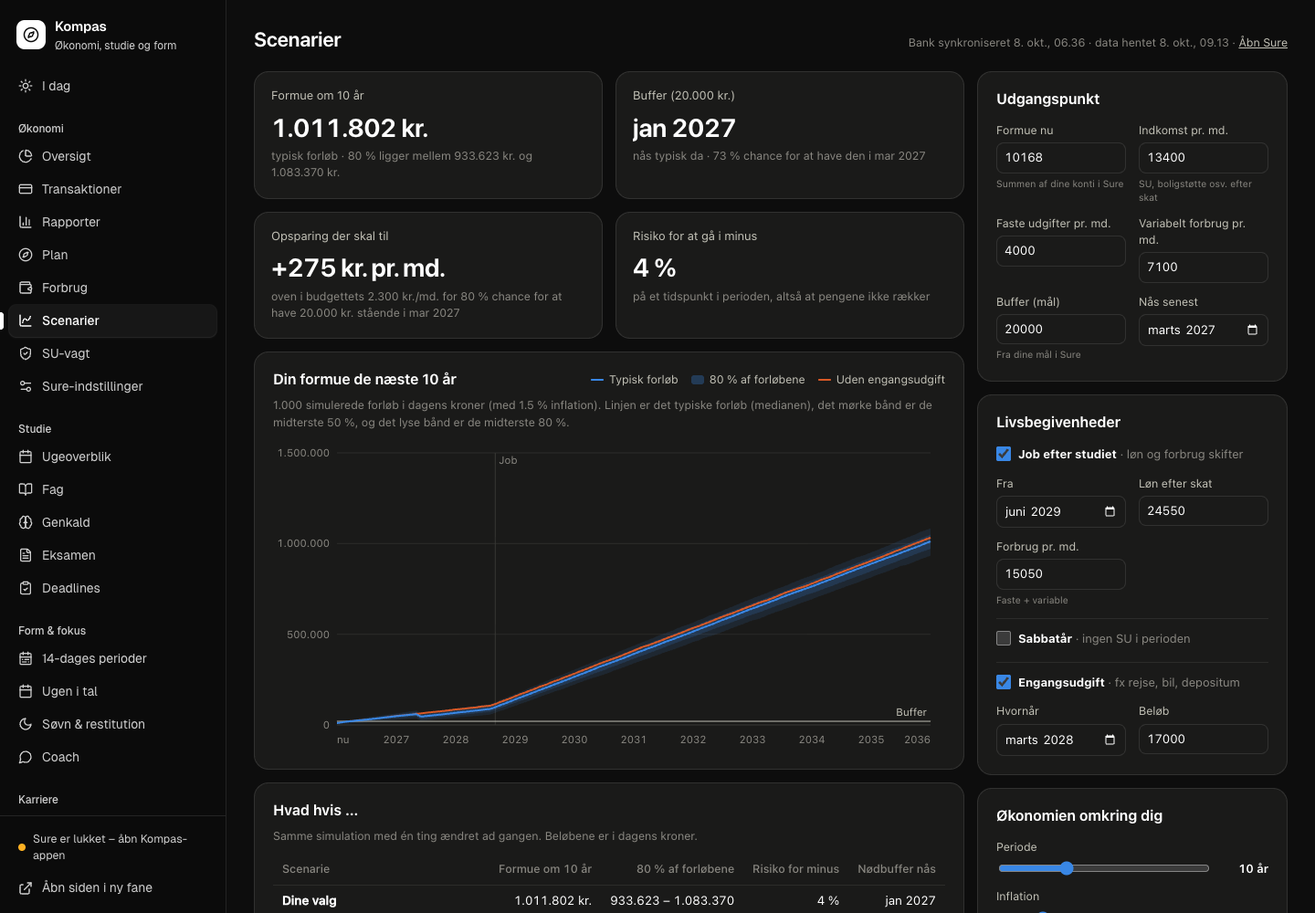
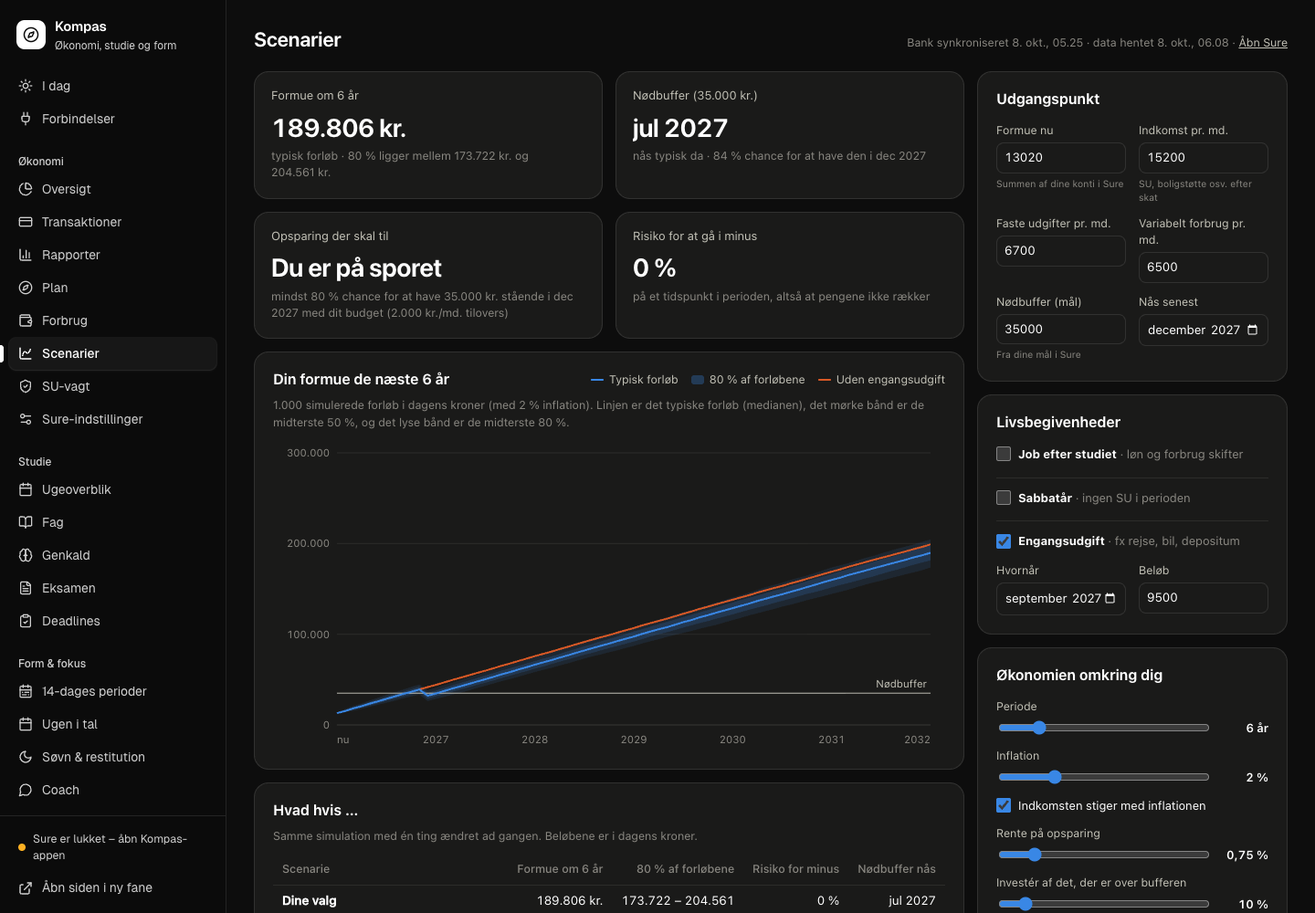
Anden gennemgang: XSS i markdown-links, ærligere afvigelser og rettelser fra mobilen
Sikkerhed
- md.js og studie-eksporten escaper også ", så et link i markdown (fx i en jobvurdering
  bygget på et opslag udefra) ikke kan få sin egen event-handler.
- Karriere: kun https://-links bliver klikbare, og opslagenes id escapes i attributterne.
- Forbindelser viser aldrig argumenter fra Claudes konfiguration.
- MCP-serverens SQL-opslag stoppes efter 10 sekunder.
- Studie: drill-gæt skrives ét ad gangen pr. fil, og gendannelsen efter et nedbrud
  overskriver ikke en anden skrivning.

Statistik
- Afvigelser: når de fleste uger er ens, skal en uge ligge uden for alle 8 uger og afvige
  med en fast forskel pr. kolonne. 4 pas efter uger med 2–4 pas og 899 kr. mod 900 kr.
  markeres ikke længere.
- Sammenhænge: lige mange naboer på hver side, så kanterne ikke giver falske fund.
- Kan coachen ikke regne belastningen, er ugerne ukendte, ikke hvileuger.
- Scenarier: hver kørsel har sine egne tilfældige tal i alle scenarier, så søgningen efter
  den nødvendige opsparing er monoton, og alt regnes med 1.000 kørsler. En måldato i denne
  måned beder om en ny dato.

Sider og dokumentation
- Mobil: Scenarier scroller ikke sidelæns, SU-vagtens måneder løber ikke sammen,
  fristernes mærker får egen linje, og grafernes etiketter ligger oven på linjen.
- Ingen dobbelt punktum efter forkortede måneder, "1,5 %" med komma, og belastningen
  beskrives som coachens TRIMP.
- README: 12 tools, hvad der faktisk kan skrive, hvad demoen gemmer, og coachens
[…]

diff --git a/okonomi/dashboard/public/scenarier/index.html b/okonomi/dashboard/public/scenarier/index.html
@@ -21,7 +21,7 @@
   #compare td:first-child { font-weight: 550; min-width: 200px; }
   #compare td.num { white-space: nowrap; }
   #fan .hover-line { stroke: var(--axis); stroke-width: 1; }
-  @media (max-width: 1000px) { .layout { grid-template-columns: 1fr; } .side { position: static; } }
+  @media (max-width: 1000px) { .layout { grid-template-columns: minmax(0, 1fr); } .side { position: static; } }
   @media (max-width: 520px) { .tiles { grid-template-columns: 1fr; } }
 </style>
 </head>
@@ -88,7 +88,7 @@
   "use strict";
   const { kr, num, pct, $, el, svgEl, addMonths, monthDiff, monthName, TODAY_KEY, loadData, metaLine, store, showTip, hideTip, yAxis } = window.Dash;
 
-  const N_MAIN = 1000, N_SIDE = 400;
+  const N_MAIN = 1000;
   const TARGET_PROB = 0.8;           // "anbefalet opsparing" = 80 % chance for the goal by its date
   const HISTORY_MONTHS = 36;         // variable spending history used for the month-to-month swings
 
@@ -154,7 +154,6 @@
   }
 
   function simulate(p, N, T, { keepPaths = true } = {}) {
-    const rng = mulberry32(123456789);
     const plan = schedule(p, T).rows;
     const inflM = Math.pow(1 + p.infl / 100, 1 / 12), cashM = Math.pow(1 + p.cashRate / 100, 1 / 12) - 1;
     const sig = p.vol / 100 / Math.sqrt(12), mu = Math.log(1 + p.ret / 100) / 12 - sig * sig / 2;
@@ -165,6 +164,9 @@
     const finals = new Float64Array(N);
     let neg = 0, goalHit = 0; const reach = [];
     for (let n = 0; n < N; n++) {
+      // Each run has its own random numbers, the same in every scenario and for every horizon: a comparison or the
+      // search for the extra saving then only shows the difference in the plan, not a different draw of the future
+      const rng = mulberry32(123456789 + n);
       let W = p.start, f = 1, wentNeg = W < 0, reached = W >= p.goal ? 0 : Infinity;
       if (paths) paths[0][n] = W;
       for (let t = 1; t <= T; t++) {
@@ -176,8 +178,9 @@
         const invested = W > p.goal * f ? (W - p.goal * f) * p.investShare / 100 : 0;
         const cash = W - invested;
         if (cash > 0) W += cash * cashM;
+        // the market moves every month, also when nothing is invested, so the runs stay in step across scenarios
+        const u1 = rng() || 1e-12, u2 = rng();
         if (invested > 0) {
-          const u1 = rng() || 1e-12, u2 = rng();
           const z = Math.sqrt(-2 * Math.log(u1)) * Math.cos(2 * Math.PI * u2);
           W += invested * (Math.exp(mu + sig * z) - 1);
         }
@@ -202,7 +205,7 @@
   // smallest extra saving per month that gives TARGET_PROB chance of the goal by its date
   function recommend(p) {
     const T = Math.max(1, monthDiff(TODAY_KEY, p.goalDate));
-    const prob = (extra) => simulate({ ...p, extra }, N_SIDE, T, { keepPaths: false }).goalProb;
+    const prob = (extra) => simulate({ ...p, extra }, N_MAIN, T, { keepPaths: false }).goalProb;
     if (prob(0) >= TARGET_PROB) return 0;
     let lo = 0, hi = 20000;
     if (prob(hi) < TARGET_PROB) return null;
@@ -218,7 +221,7 @@
     const T = T_of(S);
     const main = simulate(S, N_MAIN, T);
     const changed = S.sabbat.on || S.oneoff.on;
-    const baseline = changed ? simulate({ ...S, sabbat: { ...S.sabbat, on: false }, oneoff: { ...S.oneoff, on: false } }, N_SIDE, T) : null;
+    const baseline = changed ? simulate({ ...S, sabbat: { ...S.sabbat, on: false }, oneoff: { ...S.oneoff, on: false } }, N_MAIN, T) : null;
     renderTiles(main);
     renderFan(main, baseline);
     renderCompare(T, main);
@@ -229,15 +232,16 @@
     const tile = (label, value, sub) => tiles.append(el("div", { class: "card tile" },
       el("div", { class: "label", text: label }), el("div", { class: "value", title: value, text: value }), el("div", { class: "sub", text: sub })));
     // En måldato, der er passeret, giver ingen meningsfuld horisont; så beder fliserne om en ny dato i stedet for at
-    // regne på én måned (som gav "over 20.000 kr./md."). Den indeværende måned regnes som før.
-    const passeret = monthDiff(TODAY_KEY, S.goalDate) < 0;
-    const rec = passeret ? null : recommend(S);
+    // regne på én måned (som gav "over 20.000 kr./md."). Er måldatoen denne måned, er der ingen måneder at spare op
+    // i, så anbefalingen beder også om en ny dato; chancen for målet regnes som før.
+    const passeret = monthDiff(TODAY_KEY, S.goalDate) < 0, ingenTid = monthDiff(TODAY_KEY, S.goalDate) <= 0;
+    const rec = ingenTid ? null : recommend(S);
     const monthly = S.income - S.fixed - S.variable;
     tile(`Formue om ${S.years} år`, kr.format(main.final[1]), `typisk forløb · 80 % ligger mellem ${kr.format(main.final[0])} og ${kr.format(main.final[2])}`);
     tile(`${S.goalName} (${kr.format(S.goal)})`, reachText(main.reachMedian), passeret
       ? `nås typisk da · måldatoen ${monthName(S.goalDate)} er passeret`
       : `nås typisk da · ${pct.format(main.goalProb)} chance for at have den i ${monthName(S.goalDate)}`);
-    if (passeret) tile("Opsparing der skal til", "Vælg en ny dato", `måldatoen ${monthName(S.goalDate)} er passeret; vælg under "Nås senest", hvornår ${kr.format(S.goal)} senest skal stå der`);
+    if (ingenTid) tile("Opsparing der skal til", "Vælg en ny dato", `måldatoen ${monthName(S.goalDate)} er ${passeret ? "passeret" : "denne måned, så der er ingen måneder at spare op i"}; vælg under "Nås senest", hvornår ${kr.format(S.goal)} senest skal stå der`);
     else tile("Opsparing der skal til", rec == null ? "over 20.000 kr./md." : rec === 0 ? "Du er på sporet" : `+${kr.format(rec)} pr. md.`,
       rec === 0 ? `mindst ${pct.format(TARGET_PROB)} chance for at have ${kr.format(S.goal)} stående i ${monthName(S.goalDate)} med dit budget (${kr.format(monthly)}/md. tilovers)`
         : `oven i budgettets ${kr.format(monthly)}/md. for ${pct.format(TARGET_PROB)} chance for at have ${kr.format(S.goal)} stående i ${monthName(S.goalDate)}`);
@@ -305,7 +309,7 @@
     svg.append(hit);
 
     $("fanTitle").textContent = `Din formue de næste ${S.years} år`;
-    $("fanHint").textContent = `${num.format(N_MAIN)} simulerede forløb i dagens kroner${S.infl ? ` (med ${S.infl} % inflation)` : ""}. Linjen er det typiske forløb (medianen), det mørke bånd er de midterste 50 %, og det lyse bånd er de midterste 80 %.`;
+    $("fanHint").textContent = `${num.format(N_MAIN)} simulerede forløb i dagens kroner${S.infl ? ` (med ${String(S.infl).replace(".", ",")} % inflation)` : ""}. Linjen er det typiske forløb (medianen), det mørke bånd er de midterste 50 %, og det lyse bånd er de midterste 80 %.`;
     const leg = [
       el("span", {}, el("i", { class: "ln", style: "background:var(--s1)" }), "Typisk forløb"),
       el("span", {}, el("i", { class: "band", style: "background:var(--s1);opacity:.3" }), "80 % af forløbene"),
@@ -326,7 +330,7 @@
     $("cmpHead").textContent = `Formue om ${S.years} år`;
     const body = $("compare").querySelector("tbody"); body.replaceChildren();
     for (const [name, p] of variants) {
-      const r = p === S ? main : simulate(p, N_SIDE, T, { keepPaths: false });
+      const r = p === S ? main : simulate(p, N_MAIN, T, { keepPaths: false });
       body.append(el("tr", {},
         el("td", { text: name }),
         el("td", { class: "num", text: kr.format(r.final[1]) }),

diff --git a/karriere/kompas/index.html b/karriere/kompas/index.html
@@ -41,11 +41,11 @@ function kort(j) {
   const plus = (j.hvorfor || []).map(x => `<li class="plus">${icon("check", 14)}<span>${inl(x)}</span></li>`).join("");
   const minus = (j.huller || []).map(x => `<li class="minus">${icon("activity", 14)}<span>${inl(x)}</span></li>`).join("");
   const handlinger = AABEN.includes(j.status)
-    ? `<button type="button" class="btn" data-a="vil" data-id="${j.id}">${icon("check", 14)}Vil søge</button>
-       <button type="button" class="btn ghost" data-a="nej" data-id="${j.id}">Ikke interesseret</button>`
-    : j.status === "fravalgt" ? `<button type="button" class="btn ghost" data-a="fortryd" data-id="${j.id}">${icon("undo", 14)}Tilbage til uafklarede</button>`
+    ? `<button type="button" class="btn" data-a="vil" data-id="${esc(j.id)}">${icon("check", 14)}Vil søge</button>
+       <button type="button" class="btn ghost" data-a="nej" data-id="${esc(j.id)}">Ikke interesseret</button>`
+    : j.status === "fravalgt" ? `<button type="button" class="btn ghost" data-a="fortryd" data-id="${esc(j.id)}">${icon("undo", 14)}Tilbage til uafklarede</button>`
     : `<a class="btn ghost" href="ansoegninger.html">${icon("kanban", 14)}Se i Ansøgninger</a>`;
-  return `<article class="card job${ud ? " udloebet" : ""}" id="j-${j.id}">
+  return `<article class="card job${ud ? " udloebet" : ""}" id="j-${esc(j.id)}">
     <div class="score${hi ? " hi" : ""}" title="Matchscore fra jobagenten (tærskel ${D.taerskel})"><b>${j.score ?? "–"}</b><small>match</small></div>
     <div>
       <div class="top"><h3>${esc(j.stilling)}</h3><div class="badges">${fristBadge(j)}${stat}</div></div>
@@ -56,9 +56,9 @@ function kort(j) {
       ${j.kort ? `<p class="kort">${inl(j.kort)}</p>` : ""}
       ${j.note ? `<p class="note">Din note: ${esc(j.note)}</p>` : ""}
       <div class="actions">${handlinger}<span class="spacer"></span>
-        ${j.har_tekst ? `<button type="button" class="btn quiet" data-a="opslag" data-id="${j.id}">Opslaget</button>` : ""}
-        <a class="btn quiet" href="${esc(j.link)}" target="_blank" rel="noopener">${icon("external-link", 14)}Jobindex</a></div>
-      ${aabenFravalg === j.id ? `<form class="fravalg" data-id="${j.id}"><input name="note" placeholder="Hvorfor ikke? Valgfrit, men agenten lærer af det" maxlength="300" autofocus>
+        ${j.har_tekst ? `<button type="button" class="btn quiet" data-a="opslag" data-id="${esc(j.id)}">Opslaget</button>` : ""}
+        ${jobLink(j, "btn quiet", `${icon("external-link", 14)}Jobindex`)}</div>
+      ${aabenFravalg === j.id ? `<form class="fravalg" data-id="${esc(j.id)}"><input name="note" placeholder="Hvorfor ikke? Valgfrit, men agenten lærer af det" maxlength="300" autofocus>
         <button class="btn" type="submit">Fravælg</button><button class="btn quiet" type="button" data-a="annuller">Annullér</button></form>` : ""}
     </div></article>`;
 }

diff --git a/studie/Scripts/kompas-server.js b/studie/Scripts/kompas-server.js
@@ -435,6 +435,16 @@ function skrivVærdi(v) {
   return par.length ? `{ ${par.join(", ")} }` : "{}";
 }
 
+// Én drill-skrivning ad gangen pr. fil. Ellers kan to gæt (fx telefonens sync og Mac'en) læse samme tekst, mens
+// filen køres, og gendannelsen efter et nedbrud kan skrive den gamle tekst oven i det andet gæt.
+const drillKoe = new Map();
+function enAdGangen(f, fn) {
+  const næste = (drillKoe.get(f) || Promise.resolve()).catch(() => {}).then(fn);
+  drillKoe.set(f, næste);
+  næste.catch(() => {}).finally(() => { if (drillKoe.get(f) === næste) drillKoe.delete(f); });
+  return næste;
+}
+
 async function gemDrill({ fil, linje, beskrivelse, gaet }, meta = {}) {
   const f = drillFil(fil);
   gaet = String(gaet || "").trim();
@@ -446,17 +456,22 @@ async function gemDrill({ fil, linje, beskrivelse, gaet }, meta = {}) {
     const hint = /er ikke en værdi/.test(e.message) ? ` Tekst skal stå i anførselstegn: "${gaet}".` : ` Tekst skal stå i anførselstegn, fx "number".`;
     throw new Error(`gættet kan ikke læses som en værdi (${e.message}).${hint}`);
   }
+  return enAdGangen(f, () => skrivDrill(f, fil, linje, beskrivelse, gaet, meta));
+}
+async function skrivDrill(f, fil, linje, beskrivelse, gaet, meta) {
   const tekst = læs(f);
   // Er linjen flyttet (fx efter en rettelse i VS Code), findes tjekket på beskrivelsen, hvis den er entydig
   const alle = tjekKald(tekst), samme = alle.filter(x => !x.fejl && x.desc === beskrivelse);
   let t = alle.find(x => x.linje === +linje);
   if ((!t || t.fejl || t.desc !== beskrivelse) && samme.length === 1) t = samme[0];
   if (!t || t.fejl || t.desc !== beskrivelse) throw new Error("linjen har ændret sig; genindlæs siden");
-  skriv(f, `${tekst.slice(0, t.gaetStart)} ${gaet}${tekst.slice(t.gaetSlut)}`);
+  const med = `${tekst.slice(0, t.gaetStart)} ${gaet}${tekst.slice(t.gaetSlut)}`;
+  skriv(f, med);
   const k = await koerDrill(f);
   drillCache = null;
-  // Går filen ned efter gættet, sættes den tilbage, så drillen altid kan køres
-  if (k.crash) { skriv(f, tekst); return { status: "ukendt", fejl: `Filen kunne ikke køres med det gæt, så det er ikke gemt.\n${k.crash}` }; }
+  // Går filen ned efter gættet, sættes den tilbage, så drillen altid kan køres; men kun hvis ingen andre (fx VS Code)
+  // har ændret den imens
+  if (k.crash) { if (læs(f) === med) skriv(f, tekst); return { status: "ukendt", fejl: `Filen kunne ikke køres med det gæt, så det er ikke gemt.\n${k.crash}` }; }
   logFoersoeg({ ...meta, type: "drill", noegle: `drill/${fil}#${beskrivelse}`, rigtig: !k.fejl[beskrivelse] });
   const forklaring = forklaringer(fil)[forklaringNoegle(beskrivelse)] || null;
   return k.fejl[beskrivelse] ? { status: "forkert", javascript: k.fejl[beskrivelse].js, forklaring } : { status: "rigtig", javascript: gaet, forklaring };

diff --git a/karriere/kompas/ansoegninger.html b/karriere/kompas/ansoegninger.html
@@ -41,14 +41,14 @@ let D = null;
 
 function pk(j) {
   const svar = j.status === "tilbud" ? `<span class="badge good">${icon("check", 12)}Tilbud</span>` : j.status === "afslag" ? `<span class="badge">Afslag</span>` : "";
-  const handl = (NAESTE[j.status] || []).map(([s, t, p]) => `<button type="button" class="btn${p ? "" : " ghost"}" data-s="${s}" data-id="${j.id}">${t}</button>`).join("");
-  const bag = j.forrige && j.forrige !== j.status ? `<button type="button" class="btn quiet" data-s="${esc(j.forrige)}" data-id="${j.id}" title="Tilbage til ${esc(STATUS_TEKST[j.forrige] || j.forrige)}">${icon("undo", 13)}</button>` : "";
+  const handl = (NAESTE[j.status] || []).map(([s, t, p]) => `<button type="button" class="btn${p ? "" : " ghost"}" data-s="${s}" data-id="${esc(j.id)}">${t}</button>`).join("");
+  const bag = j.forrige && j.forrige !== j.status ? `<button type="button" class="btn quiet" data-s="${esc(j.forrige)}" data-id="${esc(j.id)}" title="Tilbage til ${esc(STATUS_TEKST[j.forrige] || j.forrige)}">${icon("undo", 13)}</button>` : "";
   return `<article class="card pc">
     <h3>${esc(j.stilling)}</h3><div class="firma">${esc(j.virksomhed)}${j.omraade ? ` · ${esc(j.omraade)}` : ""}</div>
     <div class="row">${j.status === "vil søge" ? fristBadge(j) : ""}${svar}<span class="badge" title="Matchscore">${j.score ?? "–"}</span>
       ${j.besluttet ? `<span class="meta">${dayMonth(new Date(j.besluttet))}</span>` : ""}</div>
     <div class="row">${handl}
-      <a class="btn quiet" href="${esc(j.link)}" target="_blank" rel="noopener">${icon("external-link", 13)}</a>${bag}</div>
+      ${jobLink(j, "btn quiet", icon("external-link", 13))}${bag}</div>
   </article>`;
 }
 
@@ -61,7 +61,7 @@ function render() {
         ${js.map(pk).join("") || `<p class="hint">${esc(k.hint)}</p>`}</section>`; }).join("")}</div>
     ${fravalgt.length ? `<section class="card panel"><details><summary>Fravalgt (${fravalgt.length})</summary>
       <ul class="list" style="margin-top:6px">${fravalgt.map(j => `<li><b>${esc(j.virksomhed)}</b>: ${esc(j.stilling)}${j.note ? ` · <i>${esc(j.note)}</i>` : ""}
-        <button type="button" class="btn quiet" data-s="vurderet" data-id="${j.id}">${icon("undo", 13)}Fortryd</button></li>`).join("")}</ul></details></section>` : ""}
+        <button type="button" class="btn quiet" data-s="vurderet" data-id="${esc(j.id)}">${icon("undo", 13)}Fortryd</button></li>`).join("")}</ul></details></section>` : ""}
     <p class="meta">Status gemmes i oversigt.csv i jobagent-mappen, og hver ændring logges i data/beslutninger.jsonl.</p>`;
 }
 

diff --git a/public/assets/chart.js b/public/assets/chart.js
@@ -80,14 +80,17 @@
   window.lineChart = function (el, opts) {
     const pts = opts.points, band = opts.band;
     const f = frame(el, pts, opts, [...(band ? [band.lo, band.hi] : []), ...(opts.ref ? [opts.ref.y] : [])]);
+    // labels go after the line so they sit on top of it (with a halo in the card colour, see page.css)
+    let labels = "";
     if (band) {
       const y1 = f.y(band.hi), y2 = f.y(band.lo);
       f.g += `<rect class="band" x="${f.L}" y="${y1}" width="${f.W - f.L - f.R}" height="${Math.max(1, y2 - y1)}" rx="4"/>`;
-      if (band.label) f.g += `<text x="${f.W - f.R - 6}" y="${y1 + 13}" text-anchor="end" class="ref-label">${band.label}</text>`;
+      if (band.label) labels += `<text x="${f.W - f.R - 6}" y="${y1 + 13}" text-anchor="end" class="ref-label">${band.label}</text>`;
     }
     if (opts.ref) {
       const yy = f.y(opts.ref.y);
-      f.g += `<line x1="${f.L}" x2="${f.W - f.R}" y1="${yy}" y2="${yy}" class="ref"/><text x="${f.W - f.R}" y="${yy - 5}" text-anchor="end" class="ref-label">${opts.ref.label}</text>`;
+      f.g += `<line x1="${f.L}" x2="${f.W - f.R}" y1="${yy}" y2="${yy}" class="ref"/>`;
+      labels += `<text x="${f.W - f.R}" y="${yy - 5}" text-anchor="end" class="ref-label">${opts.ref.label}</text>`;
     }
     let d = "", pen = false;
     pts.forEach((p, i) => {
@@ -97,6 +100,7 @@
     f.g += `<path class="line" d="${d}"/>`;
     const last = pts.map((p, i) => [p, i]).filter(([p]) => p.y != null).pop();
     if (last) f.g += `<circle class="pt" cx="${f.x(last[1])}" cy="${f.y(last[0].y)}" r="4"/>`;
+    f.g += labels;
     hover(f, pts, el);
   };
 })();

diff --git a/studie/Scripts/kompas/genkald.html b/studie/Scripts/kompas/genkald.html
@@ -146,7 +146,7 @@ function renderIdag() {
           : `<button type="button" class="btn m-sad" data-rmark="sad">✓ Sad</button><button type="button" class="btn m-halvt" data-rmark="halvt">~ Halvt</button><button type="button" class="btn m-blankt" data-rmark="blankt">✗ Blankt</button>`}
           <span class="spacer"></span><span class="meta">du sagde: ${esc(SIK.find(([s]) => s === rSik)?.[1] || "")}</span></div>`
       : `${sikKnapper(false)}<div class="row"><span class="spacer"></span><button type="button" class="btn quiet" id="r-spring">Tag den senere</button></div>`}
-    </section>` : `<div class="card empty">Du er igennem dagens kort.${st.naeste ? ` Næste kort kommer ${dayMonth(new Date(st.naeste))}.` : ""}<br>Vil du mere, så tag nye spørgsmål under Genkald eller skriv begreber under Begreber.</div>`}
+    </section>` : `<div class="card empty">Du er igennem dagens kort.${st.naeste ? ` Næste kort kommer ${dayMonth(new Date(st.naeste)).replace(/\.$/, "")}.` : ""}<br>Vil du mere, så tag nye spørgsmål under Genkald eller skriv begreber under Begreber.</div>`}
     ${st.nye_venter_paa_laesning ? `<a class="card panel" href="fag.html" style="display:flex;gap:12px;align-items:center;text-decoration:none;color:inherit">
       <span class="mk" style="min-width:auto;padding:0 8px">${st.nye_venter_paa_laesning}</span>
       <span style="flex:1">nye genkaldsspørgsmål venter, til du markerer deres uge som læst under <b>Fag → Styr på</b>.</span>${icon("arrow-right", 14)}</a>` : ""}

diff --git a/karriere/kompas/karriere.js b/karriere/kompas/karriere.js
@@ -39,6 +39,10 @@ function fristTekstBadge(j, f) {
   return `<span class="badge ${cls}">${icon("clock", 12)}${t}</span>`;
 }
 const udloebet = j => { const f = frist(j); return f.dage != null && f.dage < 0; };
+// Linket skriver jobagenten ud fra opslag udefra, så kun https:// bliver et link (aldrig javascript: o.l.)
+function jobLink(j, klasse, indhold) {
+  return /^https:\/\//i.test(j.link || "") ? `<a class="${klasse}" href="${esc(j.link)}" target="_blank" rel="noopener">${indhold}</a>` : "";
+}
 
 // ── skuffe til opslaget ──
 function skuffe(titel, underTitel, html, knapper = "") {
@@ -66,7 +70,7 @@ async function visOpslag(j) {
   const t = r.ok ? await r.text() : "";
   skuffe(j.stilling, `${j.virksomhed} · teksten som jobagenten hentede den`,
     t.trim() ? `<div class="opslag">${esc(t.trim())}</div>` : `<p class="meta">Teksten er ikke gemt. Se opslaget på Jobindex.</p>`,
-    `<a class="btn ghost" href="${esc(j.link)}" target="_blank" rel="noopener">${icon("external-link", 14)}Åbn på Jobindex</a>`);
+    jobLink(j, "btn ghost", `${icon("external-link", 14)}Åbn på Jobindex`));
 }
 
 // ── besked nederst med fortryd ──

diff --git a/studie/Scripts/kompas/mobil.html b/studie/Scripts/kompas/mobil.html
@@ -230,7 +230,7 @@ function renderKort(f) {
     : `<p class="hint">Ekstra genkaldsspørgsmål ud over dagens kort: først nye fra uger, du har markeret som læst, så dem du havde forkert eller halvt.</p>`;
   if (!k) {
     root().innerHTML = top + `<div class="card empty">${f === "idag"
-      ? `Du er igennem dagens kort.${P.statistik?.naeste ? ` Næste kort kommer ${dayMonth(new Date(P.statistik.naeste))}.` : ""}<br><br>Vil du mere, så tag ${P.ekstra.length ? "ekstra spørgsmål under Genkald, " : ""}begreber eller drills.`
+      ? `Du er igennem dagens kort.${P.statistik?.naeste ? ` Næste kort kommer ${dayMonth(new Date(P.statistik.naeste)).replace(/\.$/, "")}.` : ""}<br><br>Vil du mere, så tag ${P.ekstra.length ? "ekstra spørgsmål under Genkald, " : ""}begreber eller drills.`
       : P.ekstra.length ? "Du har taget alle de ekstra spørgsmål i pakken. Hent en ny pakke, når Mac'en er vågen."
       : "Pakken har ingen ekstra spørgsmål. Nye genkaldsspørgsmål kommer med, når du har markeret deres uge som læst under Fag → Styr på, på Mac'en."}</div>`;
     return;

diff --git a/public/index.html b/public/index.html
@@ -268,7 +268,7 @@ function render({ coach, soevn, liv, studie, genkald, karriere }) {
       <div class="panel-head"><h2>Fokus</h2><a class="link" href="/form/uge.html">Ugen i tal ${icon("arrow-right", 14)}</a></div>
       ${review?.tekst?.en_ting ? `<div class="one"><span class="ic-wrap">${icon("sparkles", 16)}</span><div><div class="lbl">Én ting denne uge</div><p>${esc(review.tekst.en_ting)}</p></div></div>` : ""}
       ${fokus.length ? `<ol class="fk">${fokus.map(x => `<li><span>${esc(x)}</span></li>`).join("")}</ol>
-        <p class="fk-kilde">Mål fra 14-dages rapporten ${dayMonth(parseDate(periode.start))}–${dayMonth(parseDate(periode.slut))}. Tallene i parentes er fra den periode.</p>` : ""}
+        <p class="fk-kilde">Mål fra 14-dages rapporten ${dayMonth(parseDate(periode.start))}–${dayMonth(parseDate(periode.slut)).replace(/\.$/, "")}. Tallene i parentes er fra den periode.</p>` : ""}
     </section>` : ""}
 
     <div class="s5 fade" style="animation-delay:.22s;display:grid;gap:16px;align-content:start">

diff --git a/okonomi/dashboard/public/su/index.html b/okonomi/dashboard/public/su/index.html
@@ -261,7 +261,8 @@
 
     idx.forEach((p) => {
       svg.append(svgEl("circle", { cx: x(p.i), cy: y(p.ci), r: 4, fill: "var(--s1)", "fill-opacity": p.future ? 0.4 : 1, stroke: "var(--card)", "stroke-width": 2 }));
-      const t = svgEl("text", { x: x(p.i), y: H - 8, "text-anchor": "middle" }); t.textContent = MONTHS[p.i]; svg.append(t);
+      // on a phone the twelve month names run together; then every other month is enough
+      if (band >= 34 || p.i % 2 === 0) { const t = svgEl("text", { x: x(p.i), y: H - 8, "text-anchor": "middle" }); t.textContent = MONTHS[p.i]; svg.append(t); }
       const hit = svgEl("rect", { x: padL + band * p.i, y: padT, width: band, height: H - padT - padB, fill: "transparent", tabindex: 0,
         "aria-label": `${monthName(p.k, true)}: indkomst ${kr.format(p.ci)}, fribeløb ${kr.format(p.cf)}` });
       const show = (ev) => showTip(ev, `${monthName(p.k, true)}${p.future ? " (forventet)" : ""}`, [

diff --git a/public/assets/md.js b/public/assets/md.js
@@ -1,8 +1,9 @@
 // md(text) → HTML for the projects' own markdown files (plans, drafts, profiles): headings, lists,
-// tables, block quotes, code, bold/italic/code/links. Everything is escaped first, so it is safe for
-// text from files and job ads. Pair with the .md styles in page.css.
+// tables, block quotes, code, bold/italic/code/links. Everything is escaped first, quotes too because
+// links put text in an attribute, so it is safe for text from files and job ads. Pair with the .md
+// styles in page.css.
 (function () {
-  const esc = s => s.replace(/&/g, "&amp;").replace(/</g, "&lt;").replace(/>/g, "&gt;");
+  const esc = s => s.replace(/&/g, "&amp;").replace(/</g, "&lt;").replace(/>/g, "&gt;").replace(/"/g, "&quot;");
   function inline(s) {
     const codes = [];
     s = esc(s).replace(/`([^`]+)`/g, (_, c) => `\u0000${codes.push(c) - 1}\u0000`);

diff --git a/studie/Scripts/kompas/deadlines.html b/studie/Scripts/kompas/deadlines.html
@@ -40,7 +40,9 @@
   .ecards p { margin: 0 0 8px; color: var(--text-secondary); line-height: 1.5; font-size: 13.5px; }
   .ecards p b { color: var(--text-primary); font-weight: 500; }
   @media (max-width: 900px) { .ecards { grid-template-columns: minmax(0, 1fr); } }
-  @media (max-width: 560px) { .ti { grid-template-columns: 28px minmax(0, 1fr) auto; } .ti .when { grid-column: 2 / -1; grid-row: 1; } .ti .what { grid-column: 2; } .ti .ok { grid-row: 1 / span 2; } }
+  /* På telefonen får mærkerne deres egen linje under titlen, så de ikke presser den sammen */
+  @media (max-width: 560px) { .ti { grid-template-columns: 28px minmax(0, 1fr); } .ti .when { grid-column: 2; grid-row: 1; } .ti .what { grid-column: 2; }
+    .ti .tags { grid-column: 2; justify-content: flex-start; } .ti .ok { grid-row: 1 / span 3; } }
 </style>
 </head>
 <body>
